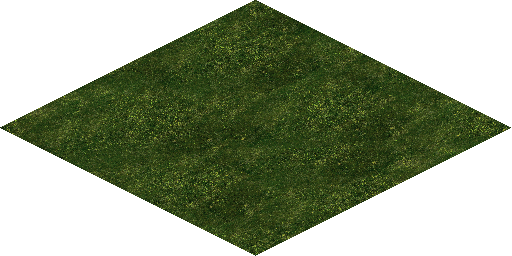
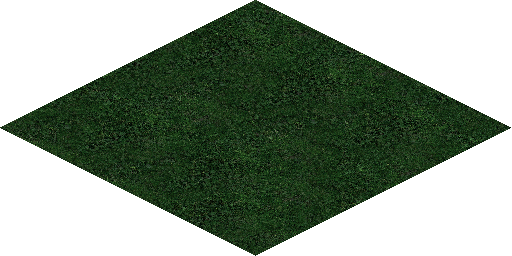
Se añade flexibilidad en la creación de Entidades

Changed region(s): [[0.0, 0.0, 1.0, 1.0]]

diff --git a/cliente/src/main/resources/recursos/Recursos.java b/cliente/src/main/resources/recursos/Recursos.java
@@ -1,6 +1,7 @@
 package recursos;
 
 import java.awt.image.BufferedImage;
+import java.util.LinkedList;
 
 public class Recursos {
 
@@ -8,32 +9,26 @@ public class Recursos {
 	private static int ALTO; // Alto del tile a obtener
 	
 	// Inicio Personajes
-	public static BufferedImage[] guerreroIzq;
-	public static BufferedImage[] guerreroArribaIzq;
-	public static BufferedImage[] guerreroArriba;
-	public static BufferedImage[] guerreroArribaDer;
-	public static BufferedImage[] guerreroDer;
-	public static BufferedImage[] guerreroAbajoDer;
-	public static BufferedImage[] guerreroAbajo;
-	public static BufferedImage[] guerreroAbajoIzq;
+	public static LinkedList<BufferedImage[]> guerrero = new LinkedList<>();
+	private static BufferedImage[] guerreroIzq;
+	private static BufferedImage[] guerreroArribaIzq; 
+	private static BufferedImage[] guerreroArriba;
+	private static BufferedImage[] guerreroArribaDer;
+	private static BufferedImage[] guerreroDer;
+	private static BufferedImage[] guerreroAbajoDer;
+	private static BufferedImage[] guerreroAbajo;
+	private static BufferedImage[] guerreroAbajoIzq;
+	 
 	
-	public static BufferedImage[] ogroIzq;
-	public static BufferedImage[] ogroArribaIzq;
-	public static BufferedImage[] ogroArriba;
-	public static BufferedImage[] ogroArribaDer;
-	public static BufferedImage[] ogroDer;
-	public static BufferedImage[] ogroAbajoDer;
-	public static BufferedImage[] ogroAbajo;
-	public static BufferedImage[] ogroAbajoIzq;
-	
-	public static BufferedImage[] guerrero2Izq;
-	public static BufferedImage[] guerrero2ArribaIzq;
-	public static BufferedImage[] guerrero2Arriba;
-	public static BufferedImage[] guerrero2ArribaDer;
-	public static BufferedImage[] guerrero2Der;
-	public static BufferedImage[] guerrero2AbajoDer;
-	public static BufferedImage[] guerrero2Abajo;
-	public static BufferedImage[] guerrero2AbajoIzq;
+	public static LinkedList<BufferedImage[]> ogro = new LinkedList<>();
+	private static BufferedImage[] ogroIzq;
+	private static BufferedImage[] ogroArribaIzq;
+	private static BufferedImage[] ogroArriba;
+	private static BufferedImage[] ogroArribaDer;
+	private static BufferedImage[] ogroDer;
+	private static BufferedImage[] ogroAbajoDer;
+	private static BufferedImage[] ogroAbajo;
+	private static BufferedImage[] ogroAbajoIzq; 
 	// Fin Personajes
 	
 	// Entorno
@@ -49,7 +44,7 @@ public class Recursos {
 		ANCHO = 256;
 		ALTO = 256;
 		// Inicio Guerrero
-		SpriteSheet guerrero = new SpriteSheet(CargadorImagen.cargarImagen("/Guerrero.png"));
+		SpriteSheet spriteGuerrero = new SpriteSheet(CargadorImagen.cargarImagen("/Guerrero.png"));
 		
 		guerreroIzq = new BufferedImage[4];
 		guerreroArribaIzq = new BufferedImage[4];
@@ -61,41 +56,49 @@ public class Recursos {
 		guerreroAbajoIzq = new BufferedImage[4];
 		
 		for(int i = 0; i < 4; i++) {
-			guerreroIzq[i] = guerrero.getTile(ANCHO*i, 0, ANCHO, ALTO);
+			guerreroIzq[i] = spriteGuerrero.getTile(ANCHO*i, 0, ANCHO, ALTO);
 		}
 		
 		for(int i = 0; i < 4; i++) {
-			guerreroArribaIzq[i] = guerrero.getTile(ANCHO*i, ALTO, ANCHO, ALTO);
+			guerreroArribaIzq[i] = spriteGuerrero.getTile(ANCHO*i, ALTO, ANCHO, ALTO);
 		}
 		
 		for(int i = 0; i < 4; i++) {
-			guerreroArriba[i] = guerrero.getTile(ANCHO*i, ALTO*2, ANCHO, ALTO);
+			guerreroArriba[i] = spriteGuerrero.getTile(ANCHO*i, ALTO*2, ANCHO, ALTO);
 		}
 		
 		for(int i = 0; i < 4; i++) {
-			guerreroArribaDer[i] = guerrero.getTile(ANCHO*i, ALTO*3, ANCHO, ALTO);
+			guerreroArribaDer[i] = spriteGuerrero.getTile(ANCHO*i, ALTO*3, ANCHO, ALTO);
 		}
 		
 		for(int i = 0; i < 4; i++) {
-			guerreroDer[i] = guerrero.getTile(ANCHO*i, ALTO*4, ANCHO, ALTO);
+			guerreroDer[i] = spriteGuerrero.getTile(ANCHO*i, ALTO*4, ANCHO, ALTO);
 		}
 		
 		for(int i = 0; i < 4; i++) {
-			guerreroAbajoDer[i] = guerrero.getTile(ANCHO*i, ALTO*5, ANCHO, ALTO);
+			guerreroAbajoDer[i] = spriteGuerrero.getTile(ANCHO*i, ALTO*5, ANCHO, ALTO);
 		}
 		
 		for(int i = 0; i < 4; i++) {
-			guerreroAbajo[i] = guerrero.getTile(ANCHO*i, ALTO*6, ANCHO, ALTO);
+			guerreroAbajo[i] = spriteGuerrero.getTile(ANCHO*i, ALTO*6, ANCHO, ALTO);
 		}
 		
 		for(int i = 0; i < 4; i++) {
-			guerreroAbajoIzq[i] = guerrero.getTile(ANCHO*i, ALTO*7, ANCHO, ALTO);
+			guerreroAbajoIzq[i] = spriteGuerrero.getTile(ANCHO*i, ALTO*7, ANCHO, ALTO);
 		}
 		
-		// Fin Guerrero
+		 guerrero.add(guerreroIzq);
+		 guerrero.add(guerreroArribaIzq);
+		 guerrero.add(guerreroArriba);
+		 guerrero.add(guerreroArribaDer);
+		 guerrero.add(guerreroDer);
+		 guerrero.add(guerreroAbajoDer);
+		 guerrero.add(guerreroAbajo);
+		 guerrero.add(guerreroAbajoIzq);
+		 // Fin Guerrero
 		
 		// Inicio Ogro
-		SpriteSheet ogro = new SpriteSheet(CargadorImagen.cargarImagen("/Ogro.png"));
+		SpriteSheet spriteOgro = new SpriteSheet(CargadorImagen.cargarImagen("/Ogro.png"));
 		
 		ogroIzq = new BufferedImage[4];
 		ogroArribaIzq = new BufferedImage[4];
@@ -107,42 +110,51 @@ public class Recursos {
 		ogroAbajoIzq = new BufferedImage[4];
 		
 		for(int i = 0; i < 4; i++) {
-			ogroIzq[i] = ogro.getTile(ANCHO*i, 0, ANCHO, ALTO);
+			ogroIzq[i] = spriteOgro.getTile(ANCHO*i, 0, ANCHO, ALTO);
 		}
 		
 		for(int i = 0; i < 4; i++) {
-			ogroArribaIzq[i] = ogro.getTile(ANCHO*i, ALTO, ANCHO, ALTO);
+			ogroArribaIzq[i] = spriteOgro.getTile(ANCHO*i, ALTO, ANCHO, ALTO);
 		}
 		
 		for(int i = 0; i < 4; i++) {
-			ogroArriba[i] = ogro.getTile(ANCHO*i, ALTO*2, ANCHO, ALTO);
+			ogroArriba[i] = spriteOgro.getTile(ANCHO*i, ALTO*2, ANCHO, ALTO);
 		}
 		
 		for(int i = 0; i < 4; i++) {
-			ogroArribaDer[i] = ogro.getTile(ANCHO*i, ALTO*3, ANCHO, ALTO);
+			ogroArribaDer[i] = spriteOgro.getTile(ANCHO*i, ALTO*3, ANCHO, ALTO);
 		}
 		
 		for(int i = 0; i < 4; i++) {
-			ogroDer[i] = ogro.getTile(ANCHO*i, ALTO*4, ANCHO, ALTO);
+			ogroDer[i] = spriteOgro.getTile(ANCHO*i, ALTO*4, ANCHO, ALTO);
 		}
 		
 		for(int i = 0; i < 4; i++) {
-			ogroAbajoDer[i] = ogro.getTile(ANCHO*i, ALTO*5, ANCHO, ALTO);
+			ogroAbajoDer[i] = spriteOgro.getTile(ANCHO*i, ALTO*5, ANCHO, ALTO);
 		}
 		
 		for(int i = 0; i < 4; i++) {
-			ogroAbajo[i] = ogro.getTile(ANCHO*i, ALTO*6, ANCHO, ALTO);
+			ogroAbajo[i] = spriteOgro.getTile(ANCHO*i, ALTO*6, ANCHO, ALTO);
 		}
 		
 		for(int i = 0; i < 4; i++) {
-			ogroAbajoIzq[i] = ogro.getTile(ANCHO*i, ALTO*7, ANCHO, ALTO);
+			ogroAbajoIzq[i] = spriteOgro.getTile(ANCHO*i, ALTO*7, ANCHO, ALTO);
 		}
+		
+		ogro.add(ogroIzq);
+		ogro.add(ogroArribaIzq);
+		ogro.add(ogroArriba);
+		ogro.add(ogroArribaDer);
+		ogro.add(ogroDer);
+		ogro.add(ogroAbajoDer);
+		ogro.add(ogroAbajo);
+		ogro.add(ogroAbajoIzq);
 		
 		// Fin Ogro
 		
 		// Inicio Entorno
-		cesped = CargadorImagen.cargarImagen("/Cesped2.png");
-		fuego = CargadorImagen.cargarImagen("/Fuego.png");
+		cesped = CargadorImagen.cargarImagen("/Cesped.png");
+		fuego = CargadorImagen.cargarImagen("/rock.png");
 		background = CargadorImagen.cargarImagen("/background.jpg");
 		// Fin Entorno
 	}

diff --git a/cliente/src/main/java/entidades/Entidad.java b/cliente/src/main/java/entidades/Entidad.java
@@ -3,6 +3,7 @@ package entidades;
 import java.awt.Color;
 import java.awt.Graphics;
 import java.awt.image.BufferedImage;
+import java.util.LinkedList;
 
 import juego.Juego;
 import mundo.Mundo;
@@ -53,6 +54,7 @@ public class Entidad {
 	private boolean diagonalSupDer;
 
 	// Animaciones
+	private LinkedList<BufferedImage[]> animaciones;
 	private final Animacion moverIzq;
 	private final Animacion moverArribaIzq;
 	private final Animacion moverArriba;
@@ -64,7 +66,7 @@ public class Entidad {
 
 	private Mundo mundo;
 
-	public Entidad(Juego juego, Mundo mundo, int ancho, int alto, float spawnX, float spawnY) {
+	public Entidad(Juego juego, Mundo mundo, int ancho, int alto, float spawnX, float spawnY, LinkedList<BufferedImage[]> animaciones, int velAnimacion) {
 		this.juego = juego;
 		this.ancho = ancho;
 		this.alto = alto;
@@ -74,14 +76,16 @@ public class Entidad {
 		x = spawnX;
 		y = spawnY;
 
-		moverIzq = new Animacion(200, Recursos.ogroIzq);
-		moverArribaIzq = new Animacion(200, Recursos.ogroArribaIzq);
-		moverArriba = new Animacion(200, Recursos.ogroArriba);
-		moverArribaDer = new Animacion(200, Recursos.ogroArribaDer);
-		moverDer = new Animacion(200, Recursos.ogroDer);
-		moverAbajoDer = new Animacion(200, Recursos.ogroAbajoDer);
-		moverAbajo = new Animacion(200, Recursos.ogroAbajo);
-		moverAbajoIzq = new Animacion(200, Recursos.ogroAbajoIzq);
+		this.animaciones = animaciones;
+		 
+	    moverIzq = new Animacion(velAnimacion, animaciones.get(0));
+	    moverArribaIzq = new Animacion(velAnimacion, animaciones.get(1));
+	    moverArriba = new Animacion(velAnimacion, animaciones.get(2));
+	    moverArribaDer = new Animacion(velAnimacion, animaciones.get(3));
+	    moverDer = new Animacion(velAnimacion, animaciones.get(4));
+	    moverAbajoDer = new Animacion(velAnimacion, animaciones.get(5));
+	    moverAbajo = new Animacion(velAnimacion, animaciones.get(6));
+	    moverAbajoIzq = new Animacion(velAnimacion, animaciones.get(7));
 	}
 
 	public void actualizar() {
@@ -257,7 +261,7 @@ public class Entidad {
 			return moverArribaDer.getFrameActual();
 		}
 
-		return Recursos.ogroAbajo[0];
+		return Recursos.ogro.get(6)[0];
 	}
 
 	public float getX() {

diff --git a/cliente/src/main/java/estados/EstadoJuego.java b/cliente/src/main/java/estados/EstadoJuego.java
@@ -16,7 +16,7 @@ public class EstadoJuego extends Estado {
 	public EstadoJuego(Juego juego) {
 		super(juego);
 		mundo = new Mundo(juego, "recursos/mundo2.txt");
-		personaje = new Entidad(juego, mundo, 64, 64, 0, 0);
+	    personaje = new Entidad(juego, mundo, 64, 64, 0, 0, Recursos.ogro, 150);
 	}
 
 	@Override
